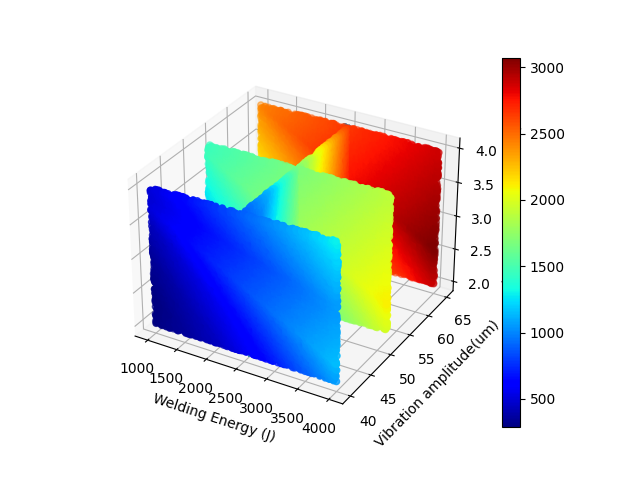
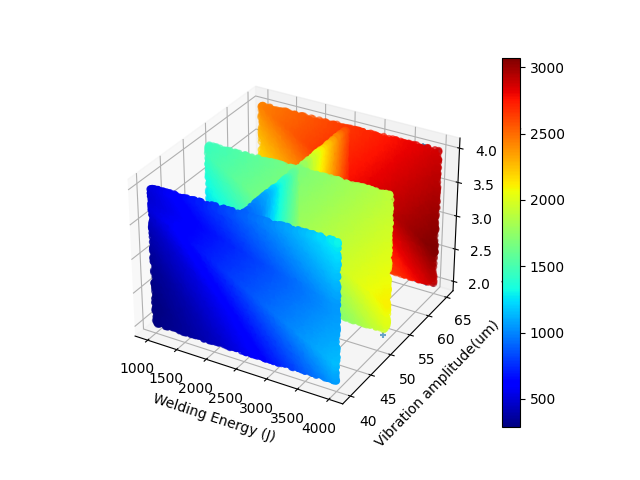
Adding probe function

diff --git a/3Doptimisation.py b/3Doptimisation.py
@@ -67,7 +67,7 @@ def black_box_function(x, y,z):
     cv.append(c)
     i = i + 1'''
 
-for i in range(100000):
+for i in range(10000):
 
     x = np.random.uniform(1000,4000)
     y = 40
@@ -80,7 +80,7 @@ for i in range(100000):
     cv.append(c)
     i = i + 1
 
-for i in range(100000):
+for i in range(10000):
 
     x = np.random.uniform(1000,4000)
     y = 52.5
@@ -95,7 +95,7 @@ for i in range(100000):
 
 
 
-for i in range(100000):
+for i in range(10000):
 
     x = np.random.uniform(1000,4000)
     y = 65
@@ -108,7 +108,7 @@ for i in range(100000):
     cv.append(c)
     i = i + 1
 
-for i in range(100000):
+for i in range(10000):
 
     x = 2500
     y = np.random.uniform(40,65)
@@ -131,7 +131,14 @@ optimizer = BayesianOptimization(
     verbose=2, # verbose = 1 prints only when a maximum is observed, verbose = 0 is silent
     random_state=249
 )
-optimizer.maximize(init_points = 5, n_iter = 20)
+def probe_point(x,y,z):
+    return optimizer.probe(params={"x": x, "y": y, "z":z},lazy=True,)
+
+probe_point(4000,65,4)
+probe_point(4000,65,2)
+probe_point(1000,65,2)
+probe_point(1500,50,3)
+optimizer.maximize(init_points = 3, n_iter = 20)
 
 xlist = []
 ylist = []

diff --git a/bayesian_optimization.py b/bayesian_optimization.py
@@ -189,7 +189,7 @@ class BayesianOptimization(Observable):
                  n_iter=25,
                  acq='ei',
                  kappa=1,
-                 xi=0,
+                 xi=0.2,
                  **gp_params):
         """Mazimize your function"""
         self._prime_subscriptions()
